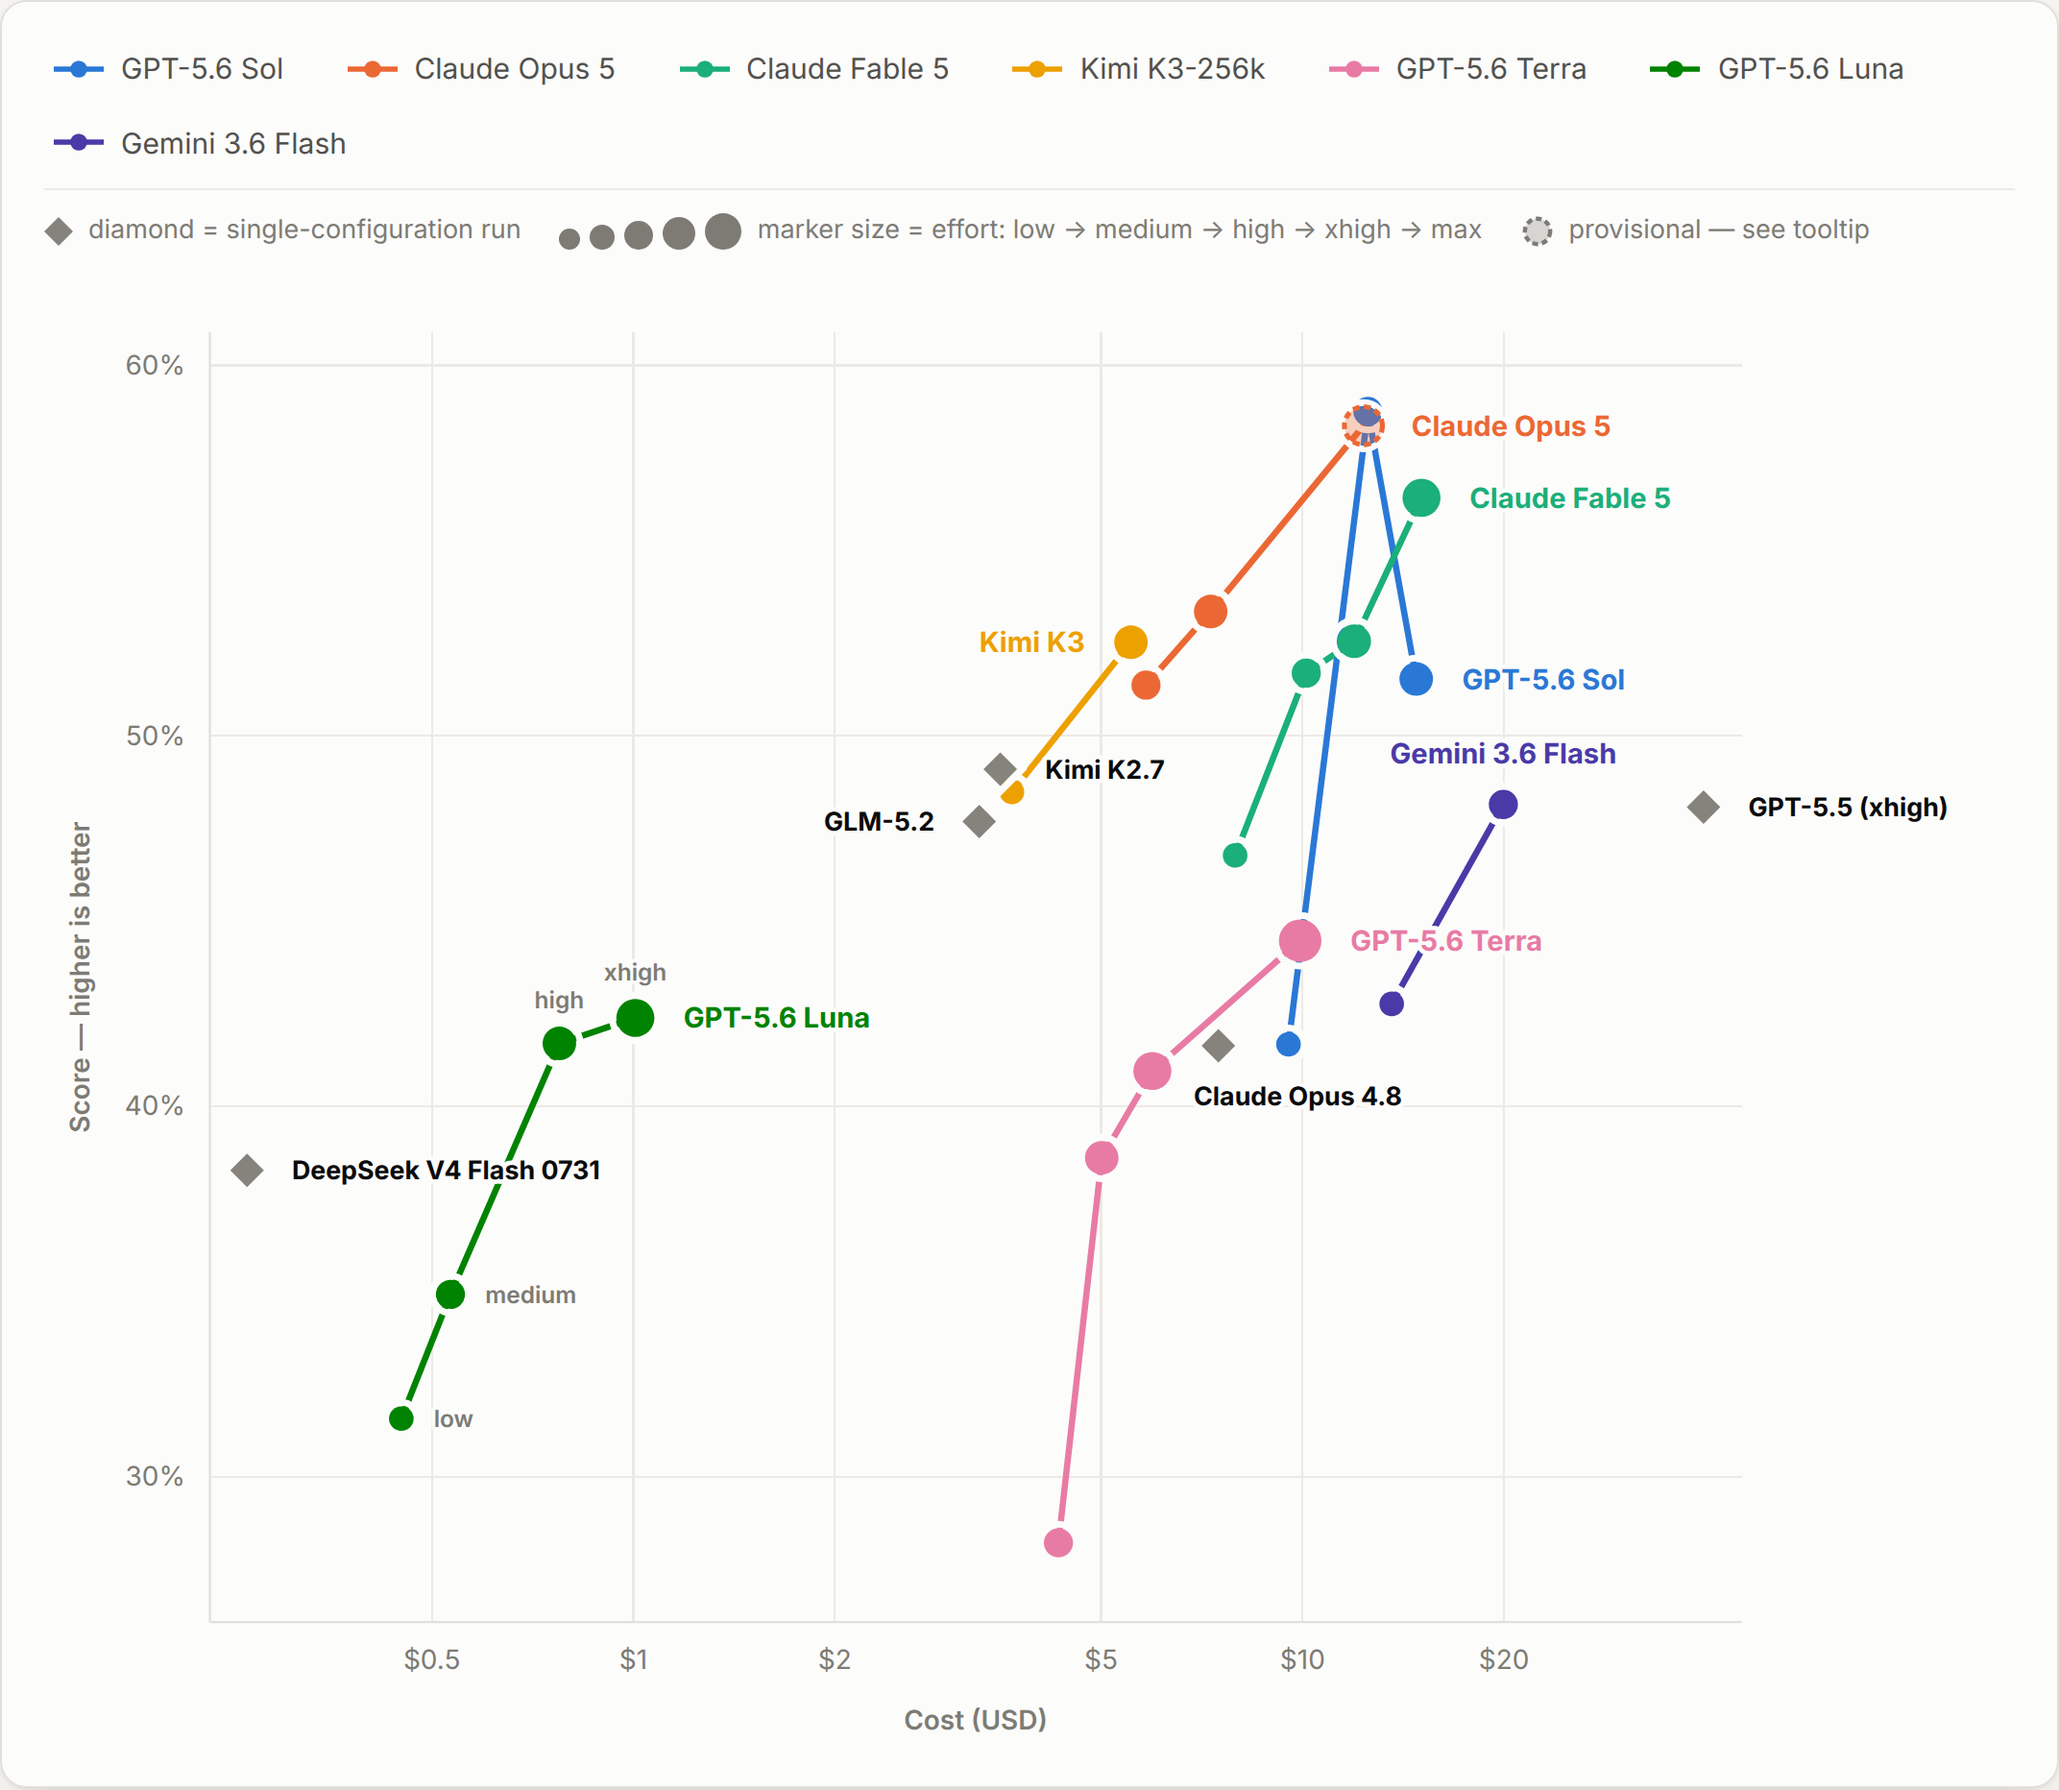
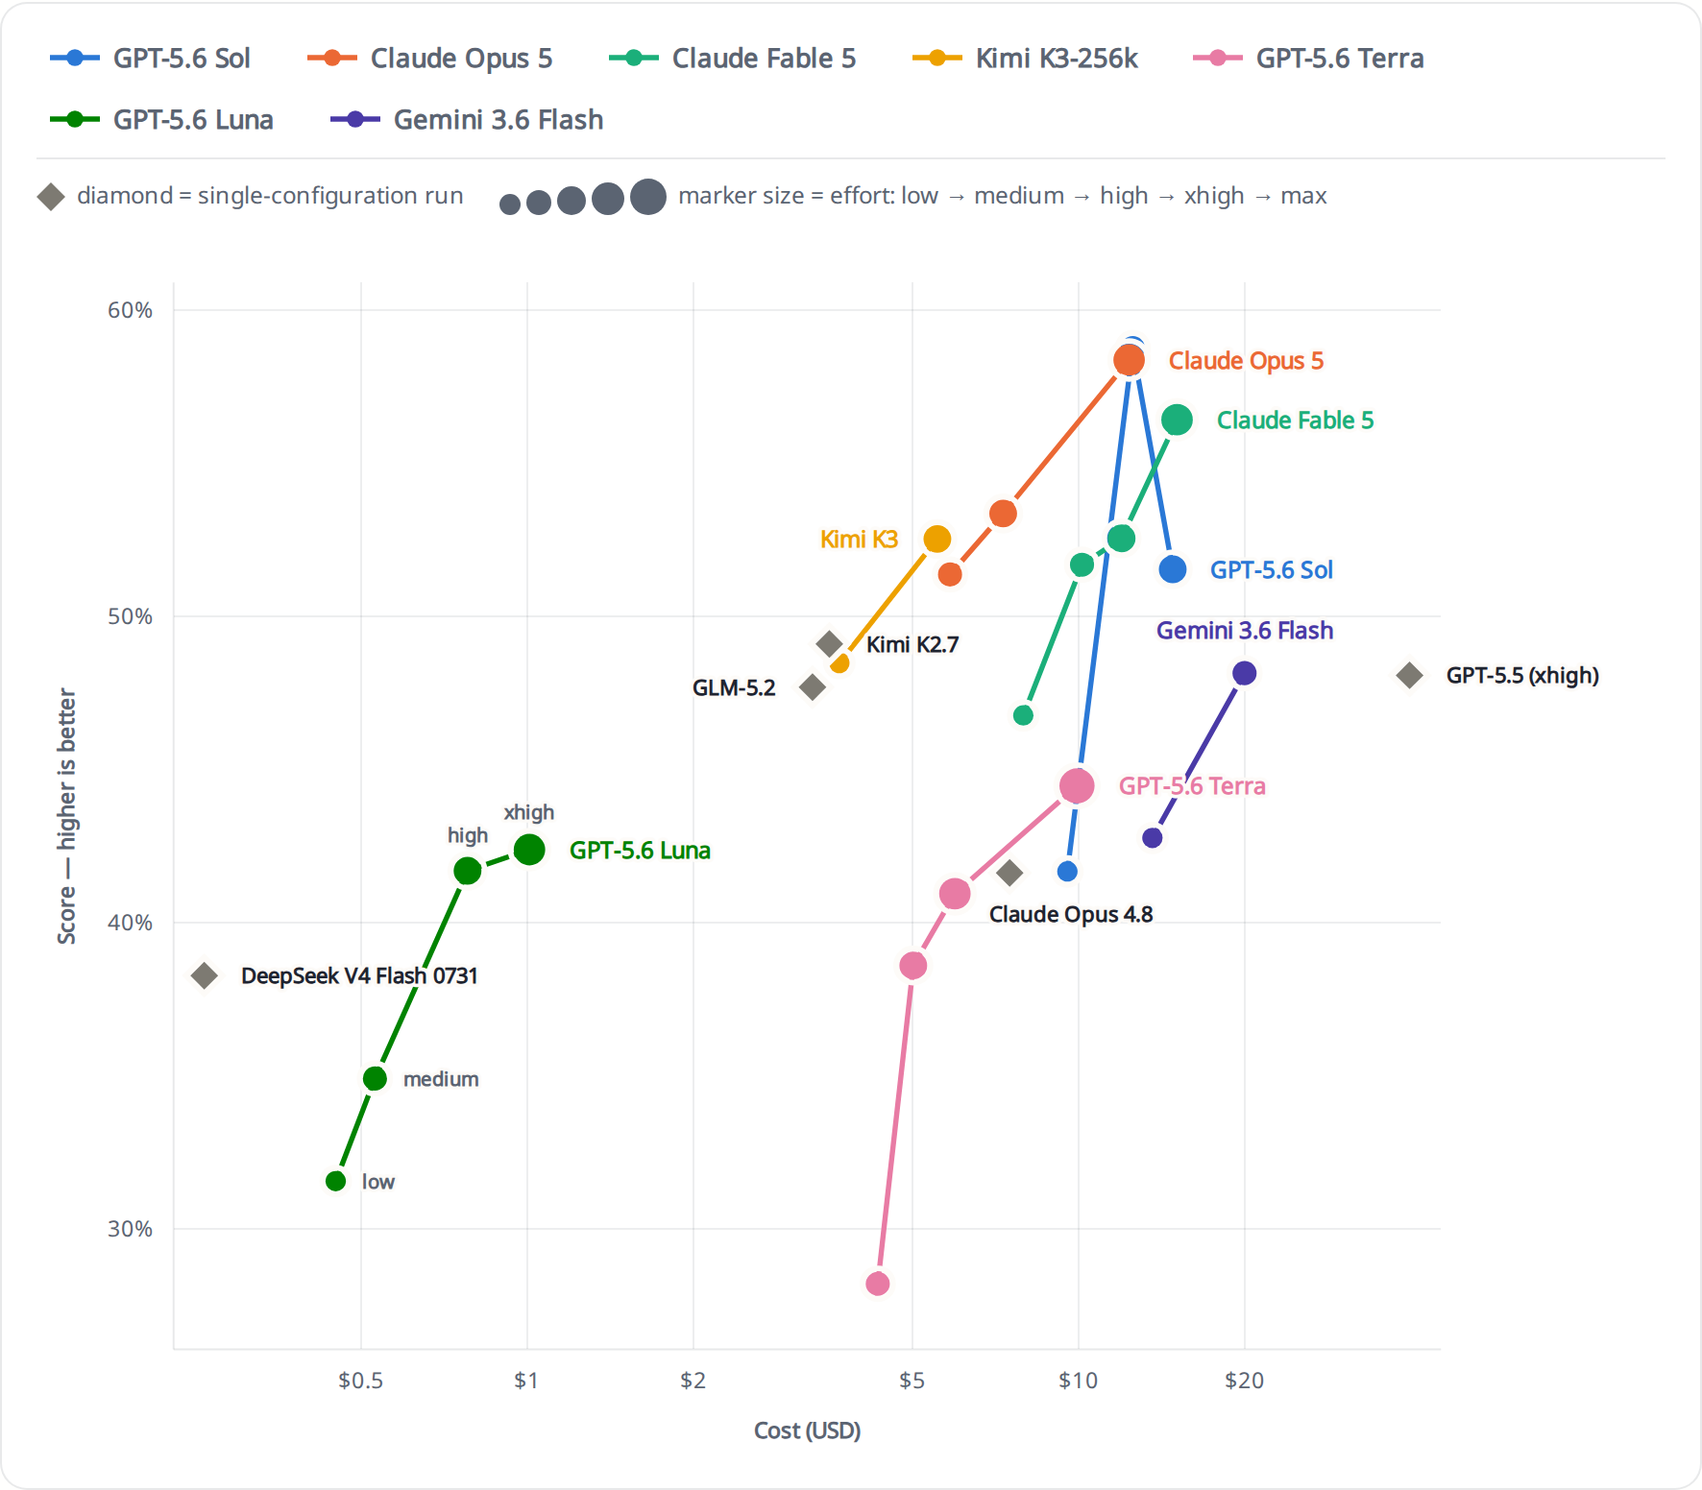
Fix price-performance chart rendering

diff --git a/README_zh.md b/README_zh.md
@@ -74,11 +74,8 @@ ATM-Bench-Hard 上的通用智能体结果如下。QS 分数使用 `gpt-5-mini` 
 ### 成本 – 得分
 
 <a href="https://atmbench.github.io/leaderboard.html">
-  <picture>
-    <source media="(prefers-color-scheme: dark)" srcset="docs/images/price-performance-dark.png">
-    <img src="docs/images/price-performance-light.png" width="100%"
-      alt="ATM-Bench-Hard 得分对运行成本的散点图，成本为对数轴（$0.26 至 $39.74）。折线连接同一模型的各推理强度档位，菱形表示单一配置运行。GPT-5.6 Sol 以 $12.52 取得 58.8%，Claude Opus 5 以 $12.33 取得 58.4%；Kimi K3-256k 以 $5.54 取得 52.5%，Gemini 3.6 Flash 以 $19.96 取得 48.2%，Claude Code 上的 GLM-5.2 以 $3.29 取得 47.7%，GPT-5.6 Luna 以 $1.01 取得 42.4%。">
-  </picture>
+  <img src="docs/images/price-performance-light.png" width="100%"
+    alt="ATM-Bench-Hard 得分对运行成本的散点图，成本为对数轴（$0.26 至 $39.74）。折线连接同一模型的各推理强度档位，菱形表示单一配置运行。GPT-5.6 Sol 以 $12.52 取得 58.8%，Claude Opus 5 以 $12.33 取得 58.4%；Kimi K3-256k 以 $5.54 取得 52.5%，Gemini 3.6 Flash 以 $19.96 取得 48.2%，Claude Code 上的 GLM-5.2 以 $3.29 取得 47.7%，GPT-5.6 Luna 以 $1.01 取得 42.4%。">
 </a>
 
 这是 2026-06-28 的精选快照，刻意保持简短：其中不含此后新增的模型（DeepSeek V4 Flash、

diff --git a/README.md b/README.md
@@ -73,11 +73,8 @@ General-Purpose Agent results on ATM-Bench-Hard are summarized below. The QS sco
 ### Price vs. Performance
 
 <a href="https://atmbench.github.io/leaderboard.html">
-  <picture>
-    <source media="(prefers-color-scheme: dark)" srcset="docs/images/price-performance-dark.png">
-    <img src="docs/images/price-performance-light.png" width="100%"
-      alt="ATM-Bench-Hard score plotted against run cost on a log axis from $0.26 to $39.74. Lines join each model's reasoning-effort tiers; diamonds are single-configuration runs. GPT-5.6 Sol peaks at 58.8% for $12.52 and Claude Opus 5 reaches 58.4% for $12.33; Kimi K3-256k reaches 52.5% for $5.54, Gemini 3.6 Flash 48.2% for $19.96, GLM-5.2 under Claude Code 47.7% for $3.29, and GPT-5.6 Luna 42.4% for $1.01.">
-  </picture>
+  <img src="docs/images/price-performance-light.png" width="100%"
+    alt="ATM-Bench-Hard score plotted against run cost on a log axis from $0.26 to $39.74. Lines join each model's reasoning-effort tiers; diamonds are single-configuration runs. GPT-5.6 Sol peaks at 58.8% for $12.52 and Claude Opus 5 reaches 58.4% for $12.33; Kimi K3-256k reaches 52.5% for $5.54, Gemini 3.6 Flash 48.2% for $19.96, GLM-5.2 under Claude Code 47.7% for $3.29, and GPT-5.6 Luna 42.4% for $1.01.">
 </a>
 
 
